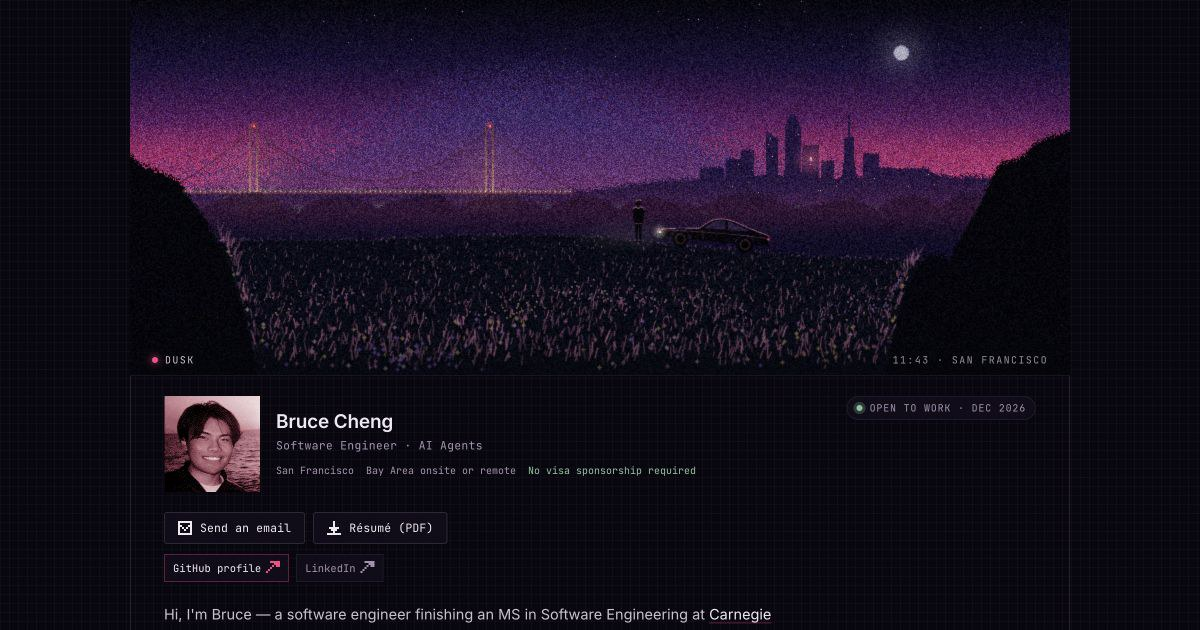
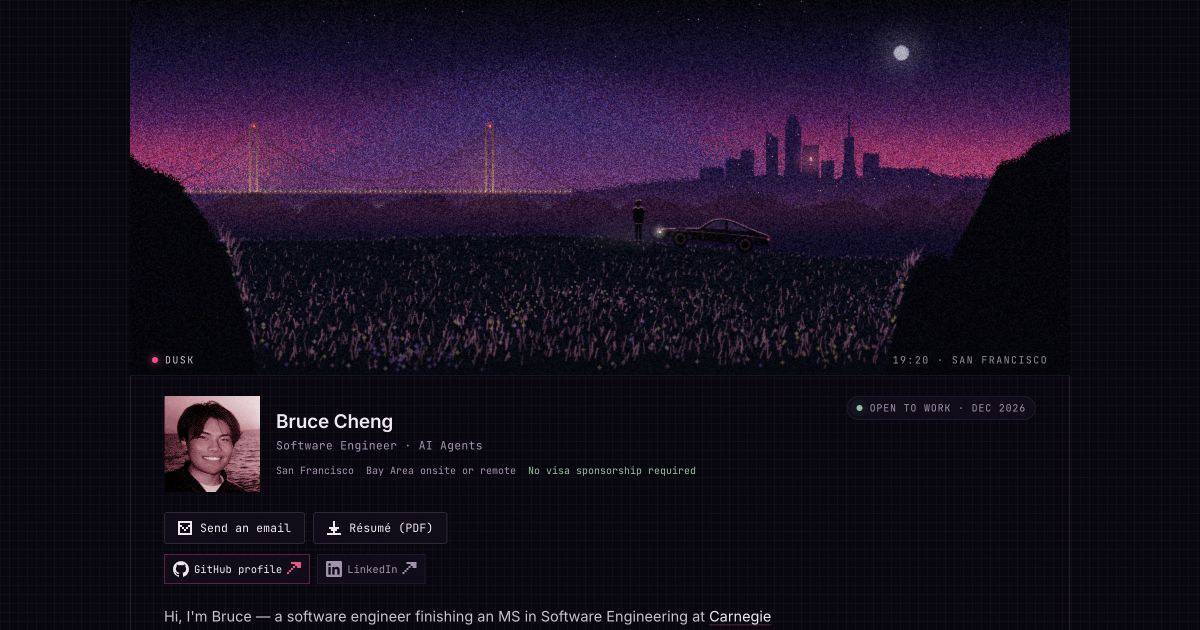
Add authentic GitHub and LinkedIn brand marks

Changed region(s): [[0.1233, 0.9651, 0.6475, 0.9952], [0.1233, 0.8746, 0.3392, 0.9349], [0.7092, 0.6333, 0.74, 0.6635]]

diff --git a/app/page.tsx b/app/page.tsx
@@ -8,6 +8,7 @@ import Like from '@/components/home/Like'
 import Reveal from '@/components/home/Reveal'
 import LogoLoop, { type LogoLoopItem } from '@/components/home/LogoLoop'
 import { Glyph } from '@/components/home/Pixels'
+import BrandMark from '@/components/home/BrandMark'
 import { figures } from '@/components/home/Figures'
 import { INTRO, PROJECTS, ROLES, SCHOOLS, SEEKING, SHELVES, STACK, CORE } from '@/lib/home'
 import { ALBUMS } from '@/lib/notebook'
@@ -144,8 +145,8 @@ export default function Page() {
             <Glyph name="down" /> Résumé (PDF)
           </a>
           <span className="actions-thin">
-            <a className="actions-github" href={SITE.github} target="_blank" rel="noopener noreferrer">GitHub profile <Glyph name="out" /></a>
-            <a href={SITE.linkedin} target="_blank" rel="noopener noreferrer">LinkedIn <Glyph name="out" /></a>
+            <a className="actions-github" href={SITE.github} target="_blank" rel="noopener noreferrer"><BrandMark name="github" /> GitHub profile <Glyph name="out" /></a>
+            <a href={SITE.linkedin} target="_blank" rel="noopener noreferrer"><BrandMark name="linkedin" /> LinkedIn <Glyph name="out" /></a>
           </span>
         </div>
 
@@ -208,7 +209,7 @@ export default function Page() {
                     {p.href
                       ? <a className="card-link" href={p.href} target="_blank" rel="noopener noreferrer"
                            aria-label={`${p.title} — ${p.linkKind === 'repo' ? 'read the source' : 'open the live site'}`}>
-                          <Glyph name="out" /> {p.linkKind === 'repo' ? 'Read the source' : 'Open the live site'}
+                          {p.linkKind === 'repo' ? <BrandMark name="github" /> : <Glyph name="out" />} {p.linkKind === 'repo' ? 'Read the source' : 'Open the live site'}
                         </a>
                       : <a className="card-link" href={`mailto:${SITE.email}?subject=${encodeURIComponent(`About ${p.title}`)}`}
                            aria-label={`Ask Bruce about ${p.title} by email`}>
@@ -261,8 +262,8 @@ export default function Page() {
           </div>
           <dl className="contact">
             <div><dt><Glyph name="mail" /> email</dt><dd><a href={`mailto:${SITE.email}`}>{SITE.email}</a></dd></div>
-            <div><dt><Glyph name="out" /> LinkedIn</dt><dd><a href={SITE.linkedin} target="_blank" rel="noopener noreferrer">{SITE.linkedinHandle}</a></dd></div>
-            <div><dt><Glyph name="out" /> GitHub</dt><dd><a href={SITE.github} target="_blank" rel="noopener noreferrer">{SITE.githubHandle}</a></dd></div>
+            <div><dt><BrandMark name="linkedin" /> LinkedIn</dt><dd><a href={SITE.linkedin} target="_blank" rel="noopener noreferrer">{SITE.linkedinHandle}</a></dd></div>
+            <div><dt><BrandMark name="github" /> GitHub</dt><dd><a href={SITE.github} target="_blank" rel="noopener noreferrer">{SITE.githubHandle}</a></dd></div>
             <div><dt><Glyph name="phone" /> phone</dt><dd><a href={SITE.phoneHref}>{SITE.phone}</a></dd></div>
             <div><dt><Glyph name="down" /> résumé</dt><dd><a href={SITE.resume} download>PDF</a></dd></div>
           </dl>

diff --git a/components/home/BrandMark.tsx b/components/home/BrandMark.tsx
@@ -1,0 +1,12 @@
+const MARKS = {
+  github: 'M12 .297C5.37.297 0 5.67 0 12.297c0 5.303 3.438 9.8 8.205 11.385.6.113.82-.258.82-.577 0-.285-.01-1.04-.015-2.04-3.338.724-4.043-1.61-4.043-1.61-.546-1.387-1.333-1.756-1.333-1.756-1.09-.744.083-.729.083-.729 1.205.084 1.838 1.237 1.838 1.237 1.07 1.835 2.809 1.305 3.495.998.108-.775.418-1.305.762-1.605-2.665-.303-5.467-1.334-5.467-5.93 0-1.31.469-2.381 1.236-3.221-.124-.303-.536-1.524.118-3.176 0 0 1.008-.322 3.301 1.23a11.52 11.52 0 0 1 3.003-.404c1.02.005 2.045.138 3.003.404 2.291-1.552 3.297-1.23 3.297-1.23.656 1.652.244 2.873.12 3.176.769.84 1.235 1.911 1.235 3.221 0 4.61-2.807 5.625-5.479 5.921.43.372.823 1.102.823 2.222 0 1.606-.015 2.898-.015 3.293 0 .322.216.694.825.576C20.565 22.092 24 17.595 24 12.297c0-6.627-5.373-12-12-12',
+  linkedin: 'M20.447 20.452h-3.554v-5.569c0-1.328-.027-3.037-1.852-3.037-1.853 0-2.136 1.445-2.136 2.939v5.667H9.351V9h3.414v1.561h.046c.477-.9 1.637-1.85 3.37-1.85 3.601 0 4.267 2.37 4.267 5.455v6.286zM5.337 7.433c-1.144 0-2.063-.926-2.063-2.065 0-1.138.92-2.063 2.063-2.063 1.14 0 2.064.925 2.064 2.063 0 1.139-.925 2.065-2.064 2.065zm1.782 13.019H3.555V9h3.564v11.452zM22.225 0H1.771C.792 0 0 .774 0 1.729v20.542C0 23.227.792 24 1.771 24h20.451C23.2 24 24 23.227 24 22.271V1.729C24 .774 23.2 0 22.222 0h.003z',
+} as const
+
+export default function BrandMark({ name }: { name: keyof typeof MARKS }) {
+  return (
+    <svg className="brand-mark" viewBox="0 0 24 24" width="16" height="16" fill="currentColor" aria-hidden="true" focusable="false">
+      <path d={MARKS[name]} />
+    </svg>
+  )
+}

diff --git a/app/home.css b/app/home.css
@@ -359,6 +359,14 @@
 .actions-thin .actions-github { color: var(--ink); border-color: rgb(var(--accent-rgb) / 0.32); }
 .actions-thin .actions-github .glyph { color: var(--accent); }
 
+.brand-mark {
+  display: inline-block;
+  flex-shrink: 0;
+  width: 16px;
+  height: 16px;
+  vertical-align: -0.2em;
+}
+
 @media (max-width: 600px) {
   .actions .btn, .actions-thin a { min-height: 44px; }
 }
